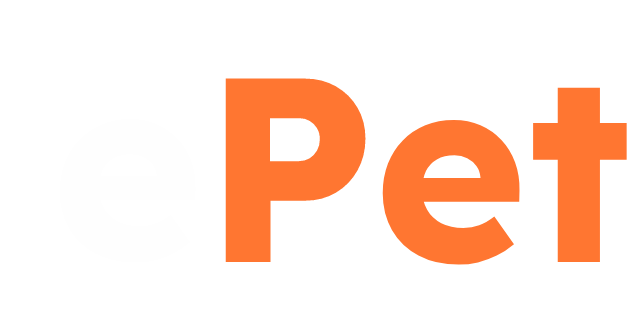
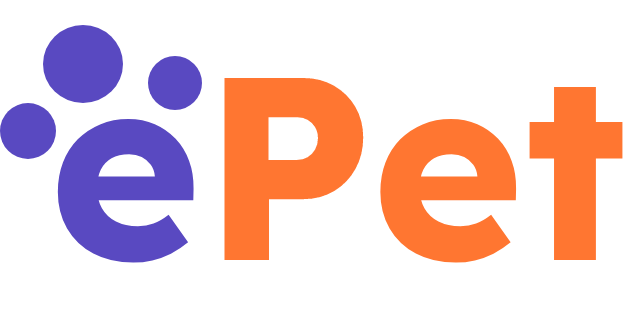
Finalizando tela de login

diff --git a/src/screens/tutorial/index.tsx b/src/screens/tutorial/index.tsx
@@ -4,6 +4,8 @@ import { SafeAreaView } from 'react-native-safe-area-context';
 
 import { StatusBar } from 'expo-status-bar';
 
+import { AntDesign } from '@expo/vector-icons';
+
 import { tutorialData, TutorialDataProps } from '../../utils/tutorialData';
 
 import styles from './styles';
@@ -32,13 +34,15 @@ export default function Tutorial({ navigation }: any): JSX.Element {
 
   return (
     <>
-      <StatusBar style="dark" />
+      <StatusBar style="light" />
       
       <SafeAreaView style={styles.container}>
         <View style={styles.content}>
           <View style={styles.topBar}>
             <TouchableOpacity onPress={() => skipSteps()}>
-              <Text style={styles.skipButtonText}>PULAR</Text>
+              <Text style={styles.skipButtonText}>
+                PULAR
+              </Text>
             </TouchableOpacity>
           </View>
 
@@ -46,13 +50,23 @@ export default function Tutorial({ navigation }: any): JSX.Element {
             <Image source={stepElement.photo} style={styles.photo} />
 
             <View style={{ width: "100%", marginTop: 54, }}>
-              <Text style={styles.title}>{stepElement.title}</Text>
-              <Text style={styles.paragraph}>{stepElement.instruction}</Text>
+              <Text style={styles.title}>
+                {stepElement.title}
+              </Text>
+              <Text style={styles.paragraph}>
+                {stepElement.instruction}
+              </Text>
             </View>
           </View>
 
           <View style={styles.controllersWrapper}>
-            <TouchableOpacity style={styles.nextButton} onPress={nextStep} />
+            <TouchableOpacity
+              activeOpacity={.8}
+              style={styles.nextButton}
+              onPress={nextStep}
+            >
+              <AntDesign name="right" size={24} color="#FEFEFE" />
+            </TouchableOpacity>
 
             <View style={styles.stepControllersWrapper}>
               <View style={styles.stepControllersCirclesWrapper}>

diff --git a/src/screens/login/index.tsx b/src/screens/login/index.tsx
@@ -1,4 +1,7 @@
-import { Text, View } from "react-native";
+import { Image, Text, View } from "react-native";
+import { StatusBar } from "expo-status-bar";
+
+import Logo from "../../../assets/icon.png";
 
 import Button from "../../components/button";
 
@@ -6,21 +9,27 @@ import styles from "./styles";
 
 export default function Login(): JSX.Element {
   return (
-    <View style={styles.container}>
+    <>
+      <StatusBar style="dark" />
 
-      <View style={styles.content}>
-        <View style={styles.imageWrapper}></View>
-        <View style={styles.aboutWrapper}>
-          <View style={styles.aboutTextWrapper}>
-            <Text style={styles.aboutTitle}>Falta pouco pra matar sua fome!</Text>
-            <Text style={styles.subTitle}>Como deseja continuar?</Text>
+      <View style={styles.container}>
+        <View style={styles.content}>
+          <View style={styles.imageWrapper}>
+              <Image source={Logo} style={styles.logo} />
           </View>
-          <View style={styles.aboutControllersWrapper}>
-            <Button>Continuar com o Facebook</Button>
-            <Button type="dark" style={{ marginTop: 8 }}>E-mail</Button>
+
+          <View style={styles.aboutWrapper}>
+            <View style={styles.aboutTextWrapper}>
+              <Text style={styles.aboutTitle}>Falta pouco pra matar sua fome!</Text>
+              <Text style={styles.subTitle}>Como deseja continuar?</Text>
+            </View>
+            <View style={styles.aboutControllersWrapper}>
+              <Button>Continuar com o Facebook</Button>
+              <Button type="dark" style={{ marginTop: 8 }}>E-mail</Button>
+            </View>
           </View>
         </View>
       </View>
-    </View>
+    </>
   );
 }

diff --git a/src/routes/index.tsx b/src/routes/index.tsx
@@ -4,7 +4,6 @@ import { createNativeStackNavigator } from "@react-navigation/native-stack";
 import AppLoading from "expo-app-loading";
 
 import { useFonts } from "expo-font";
-import { StatusBar } from "expo-status-bar";
 
 import Home from "../screens/home";
 import Login from "../screens/login";
@@ -25,24 +24,20 @@ export default function Routes() {
   if (!fontsLoaded) {
     return <AppLoading />
   } else {
-    return (
-      <>
-        <StatusBar style="inverted" />
-        
-        <NavigationContainer>
-          <Stack.Navigator initialRouteName="Tutorial" screenOptions={{ animation: "none" }}>
-            <Stack.Screen name="Tutorial" options={{
-              headerShown: false,
-            }} component={Tutorial} />
-            <Stack.Screen name="Login" options={{
-              headerShown: false,
-            }} component={Login} />
-            <Stack.Screen name="Home" options={{
-              headerShown: false,
-            }} component={Home} />
-          </Stack.Navigator>
-        </NavigationContainer>
-      </>
+    return (    
+      <NavigationContainer>
+        <Stack.Navigator initialRouteName="Tutorial" screenOptions={{ animation: "none" }}>
+          <Stack.Screen name="Tutorial" options={{
+            headerShown: false,
+          }} component={Tutorial} />
+          <Stack.Screen name="Login" options={{
+            headerShown: false,
+          }} component={Login} />
+          <Stack.Screen name="Home" options={{
+            headerShown: false,
+          }} component={Home} />
+        </Stack.Navigator>
+      </NavigationContainer>
     );
   }
 }

diff --git a/src/screens/login/styles.ts b/src/screens/login/styles.ts
@@ -12,15 +12,27 @@ const styles = StyleSheet.create({
       paddingRight: 24,
     },
 
-    content: {},
-    imageWrapper: {},
+    content: {
+      // backgroundColor: "green",
+      maxHeight: 540,
+      flex: 1,
+      justifyContent: "space-around"
+    },
+    imageWrapper: {
+      // backgroundColor: "red",
+      alignItems: "center",
+      justifyContent: "center"
+    },
     
-    aboutWrapper: {},
+    aboutWrapper: {
+      // backgroundColor: "red",
+      width: "100%"
+    },
     aboutTextWrapper: {},
     aboutTitle: {
       color: "#575757",
       fontFamily: "ReadexPro-SemiBold",
-      fontSize: 26,
+      fontSize: 25,
       textAlign: "center"
     },
     subTitle: {
@@ -32,6 +44,11 @@ const styles = StyleSheet.create({
     aboutControllersWrapper: {
       marginTop: 52,
     },
+
+    logo: {
+      width: 200,
+      height: 90,
+    }
 });
 
 export default styles;

diff --git a/src/components/button/index.tsx b/src/components/button/index.tsx
@@ -4,7 +4,7 @@ import styles from "./styles";
 
 export default function Button({ style, type = "light", children }: any): JSX.Element {
     return (
-        <TouchableOpacity style={{
+        <TouchableOpacity activeOpacity={.8} style={{
             ...styles.container,
             ...style,
             backgroundColor: type == "light" ? "#5949C1" : "transparent",

diff --git a/src/screens/tutorial/styles.ts b/src/screens/tutorial/styles.ts
@@ -59,6 +59,8 @@ const styles = StyleSheet.create({
       height: 64,
       borderRadius: 8,
       backgroundColor: "#503CCF",
+      alignItems: "center",
+      justifyContent: "center"
     },
 
 
